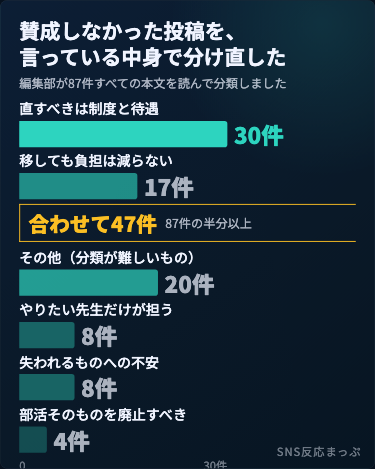
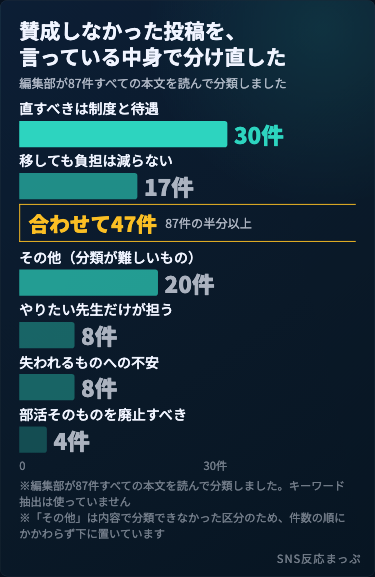
note第2回の画像: 図2の下端の切れを直し、見出し画像の375pxプレビューを再生成対象に

diff --git a/content/note/drafts/figures/bukatsu2_fig2-reread.html b/content/note/drafts/figures/bukatsu2_fig2-reread.html
@@ -2,5 +2,5 @@
 <html lang="ja"><head><meta charset="utf-8"><meta name="viewport" content="width=800,initial-scale=1">
 <link href="https://fonts.googleapis.com/css2?family=Noto+Sans+JP:wght@400;500;700;900&display=swap" rel="stylesheet">
 <style>
-:root{--page:#07111E;--c1:#0C1E35;--c2:#0A1928;--c3:#071522;--ink:#F0F4FF;--i70:rgba(240,244,255,.70);--i45:rgba(240,244,255,.45);--teal:#2DD4BF;--amber:#FBBF24}*{box-sizing:border-box}html,body,.canvas{width:800px;height:1000px;margin:0;overflow:hidden}body{background:var(--page);color:var(--ink);font-family:'Noto Sans JP',sans-serif;font-variant-numeric:tabular-nums}.canvas{position:relative;padding:36px 40px;background:radial-gradient(circle at 86% 5%,rgba(45,212,191,.12),transparent 28%),linear-gradient(145deg,var(--c1),var(--c2) 60%,var(--c3));border:1px solid rgba(255,255,255,.08);border-radius:16px}.canvas:before{content:'';position:absolute;inset:0;background-image:linear-gradient(rgba(255,255,255,.025) 1px,transparent 1px),linear-gradient(90deg,rgba(255,255,255,.025) 1px,transparent 1px);background-size:48px 48px}.content{position:relative;z-index:1}h1{margin:0;font-size:44px;line-height:1.27}.sub{margin:10px 0 17px;color:var(--i70);font-size:26px;line-height:1.4}.chart{position:relative}.row{margin-bottom:10px}.label{margin-bottom:8px;font-size:30px;font-weight:500;line-height:1.25}.barline{display:flex;align-items:center;gap:14px}.bar{height:56px;border-radius:0 6px 6px 0}.v{font-size:48px;font-weight:900;line-height:1;white-space:nowrap;color:var(--i70)}.primary{color:var(--teal)}.a{width:444px;background:var(--teal)}.b{width:252px;background:rgba(45,212,191,.62)}.c{width:296px;background:rgba(45,212,191,.70)}.d{width:118px;background:rgba(45,212,191,.40)}.e{width:118px;background:rgba(45,212,191,.40)}.f{width:59px;background:rgba(45,212,191,.28)}.callout{display:flex;align-items:center;gap:18px;margin:8px 0 14px;padding:13px 0 13px 18px;border-left:2px solid var(--amber);border-top:2px solid var(--amber);border-bottom:2px solid var(--amber)}.callout b{color:var(--amber);font-size:44px;font-weight:900;line-height:1.15}.callout span{color:var(--i70);font-size:26px;line-height:1.3}.axis{display:flex;justify-content:space-between;width:444px;margin-top:-2px;color:var(--i45);font-size:24px}.notes{margin:10px 0 0;color:var(--i45);font-size:24px;line-height:1.4}.credit{position:absolute;z-index:1;right:28px;bottom:20px;color:var(--i45);font-size:24px;letter-spacing:.08em}
+:root{--page:#07111E;--c1:#0C1E35;--c2:#0A1928;--c3:#071522;--ink:#F0F4FF;--i70:rgba(240,244,255,.70);--i45:rgba(240,244,255,.45);--teal:#2DD4BF;--amber:#FBBF24}*{box-sizing:border-box}html,body,.canvas{width:800px;height:1230px;margin:0;overflow:hidden}body{background:var(--page);color:var(--ink);font-family:'Noto Sans JP',sans-serif;font-variant-numeric:tabular-nums}.canvas{position:relative;padding:36px 40px;background:radial-gradient(circle at 86% 5%,rgba(45,212,191,.12),transparent 28%),linear-gradient(145deg,var(--c1),var(--c2) 60%,var(--c3));border:1px solid rgba(255,255,255,.08);border-radius:16px}.canvas:before{content:'';position:absolute;inset:0;background-image:linear-gradient(rgba(255,255,255,.025) 1px,transparent 1px),linear-gradient(90deg,rgba(255,255,255,.025) 1px,transparent 1px);background-size:48px 48px}.content{position:relative;z-index:1}h1{margin:0;font-size:44px;line-height:1.27}.sub{margin:10px 0 17px;color:var(--i70);font-size:26px;line-height:1.4}.chart{position:relative}.row{margin-bottom:10px}.label{margin-bottom:8px;font-size:30px;font-weight:500;line-height:1.25}.barline{display:flex;align-items:center;gap:14px}.bar{height:56px;border-radius:0 6px 6px 0}.v{font-size:48px;font-weight:900;line-height:1;white-space:nowrap;color:var(--i70)}.primary{color:var(--teal)}.a{width:444px;background:var(--teal)}.b{width:252px;background:rgba(45,212,191,.62)}.c{width:296px;background:rgba(45,212,191,.70)}.d{width:118px;background:rgba(45,212,191,.40)}.e{width:118px;background:rgba(45,212,191,.40)}.f{width:59px;background:rgba(45,212,191,.28)}.callout{display:flex;align-items:center;gap:18px;margin:8px 0 14px;padding:13px 0 13px 18px;border-left:2px solid var(--amber);border-top:2px solid var(--amber);border-bottom:2px solid var(--amber)}.callout b{color:var(--amber);font-size:44px;font-weight:900;line-height:1.15}.callout span{color:var(--i70);font-size:26px;line-height:1.3}.axis{display:flex;justify-content:space-between;width:444px;margin-top:-2px;color:var(--i45);font-size:24px}.notes{margin:10px 0 56px;color:var(--i45);font-size:24px;line-height:1.4}.credit{position:absolute;z-index:1;right:28px;bottom:20px;color:var(--i45);font-size:24px;letter-spacing:.08em}
 </style></head><body><main class="canvas"><div class="content"><h1>賛成しなかった投稿を、<br>言っている中身で分け直した</h1><p class="sub">編集部が87件すべての本文を読んで分類しました</p><section class="chart"><div class="row"><div class="label">直すべきは制度と待遇</div><div class="barline"><div class="bar a"></div><b class="v primary">30件</b></div></div><div class="row"><div class="label">移しても負担は減らない</div><div class="barline"><div class="bar b"></div><b class="v">17件</b></div></div><div class="callout"><b>合わせて47件</b><span>87件の半分以上</span></div><div class="row"><div class="label">その他（分類が難しいもの）</div><div class="barline"><div class="bar c"></div><b class="v">20件</b></div></div><div class="row"><div class="label">やりたい先生だけが担う</div><div class="barline"><div class="bar d"></div><b class="v">8件</b></div></div><div class="row"><div class="label">失われるものへの不安</div><div class="barline"><div class="bar e"></div><b class="v">8件</b></div></div><div class="row"><div class="label">部活そのものを廃止すべき</div><div class="barline"><div class="bar f"></div><b class="v">4件</b></div></div><div class="axis"><span>0</span><span>30件</span></div></section><p class="notes">※編集部が87件すべての本文を読んで分類しました。キーワード抽出は使っていません<br>※「その他」は内容で分類できなかった区分のため、件数の順にかかわらず下に置いています</p></div><div class="credit">SNS反応まっぷ</div></main></body></html>
